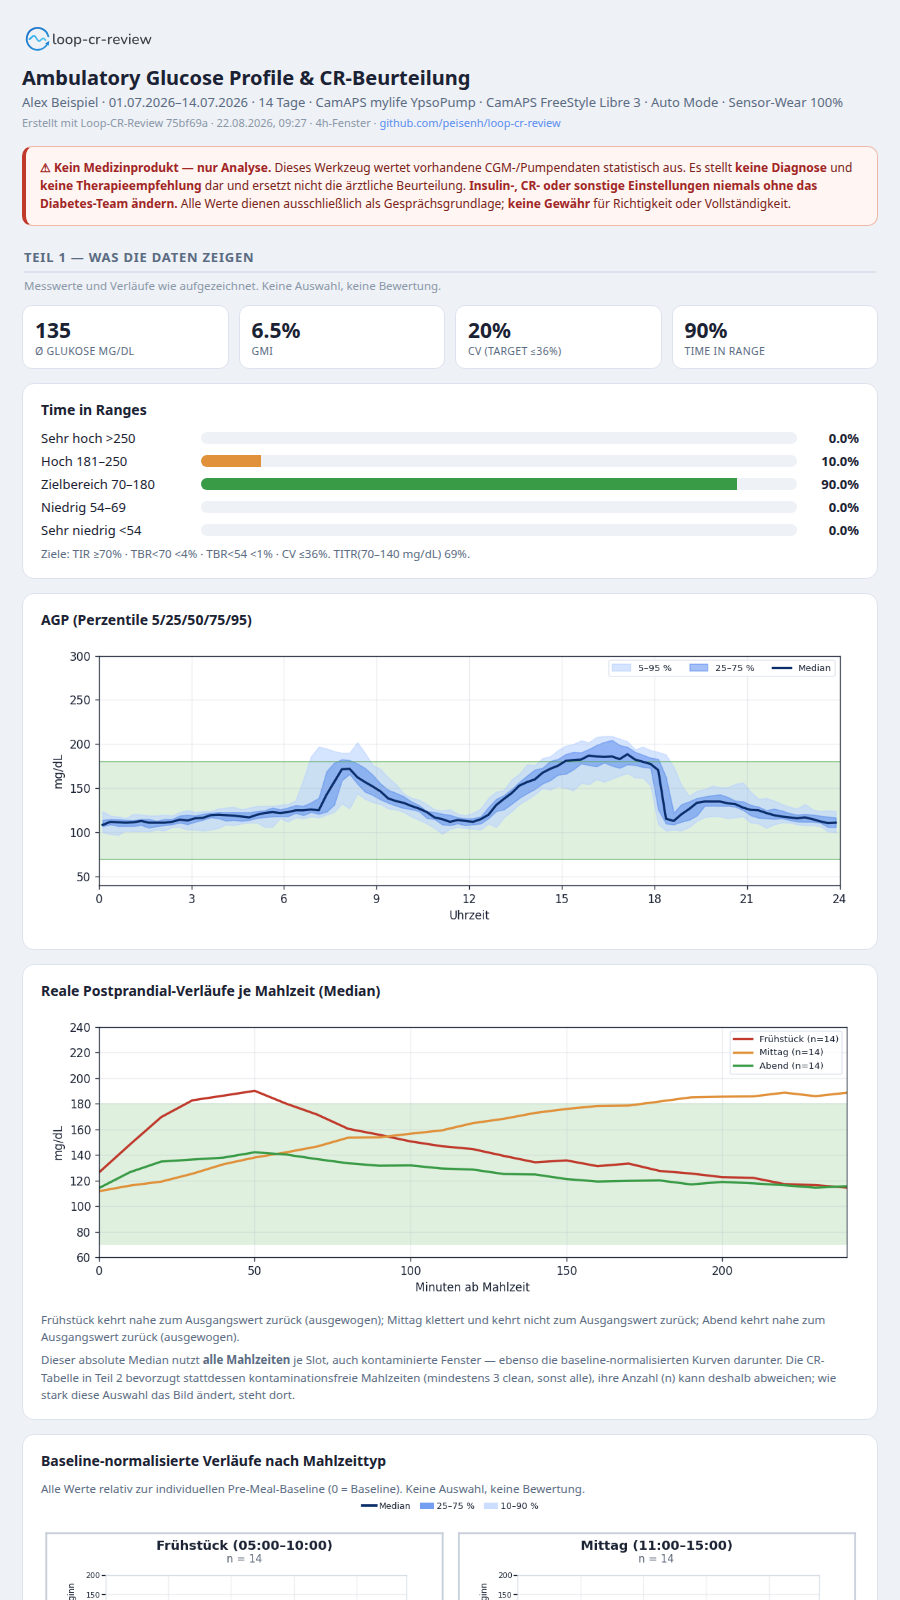
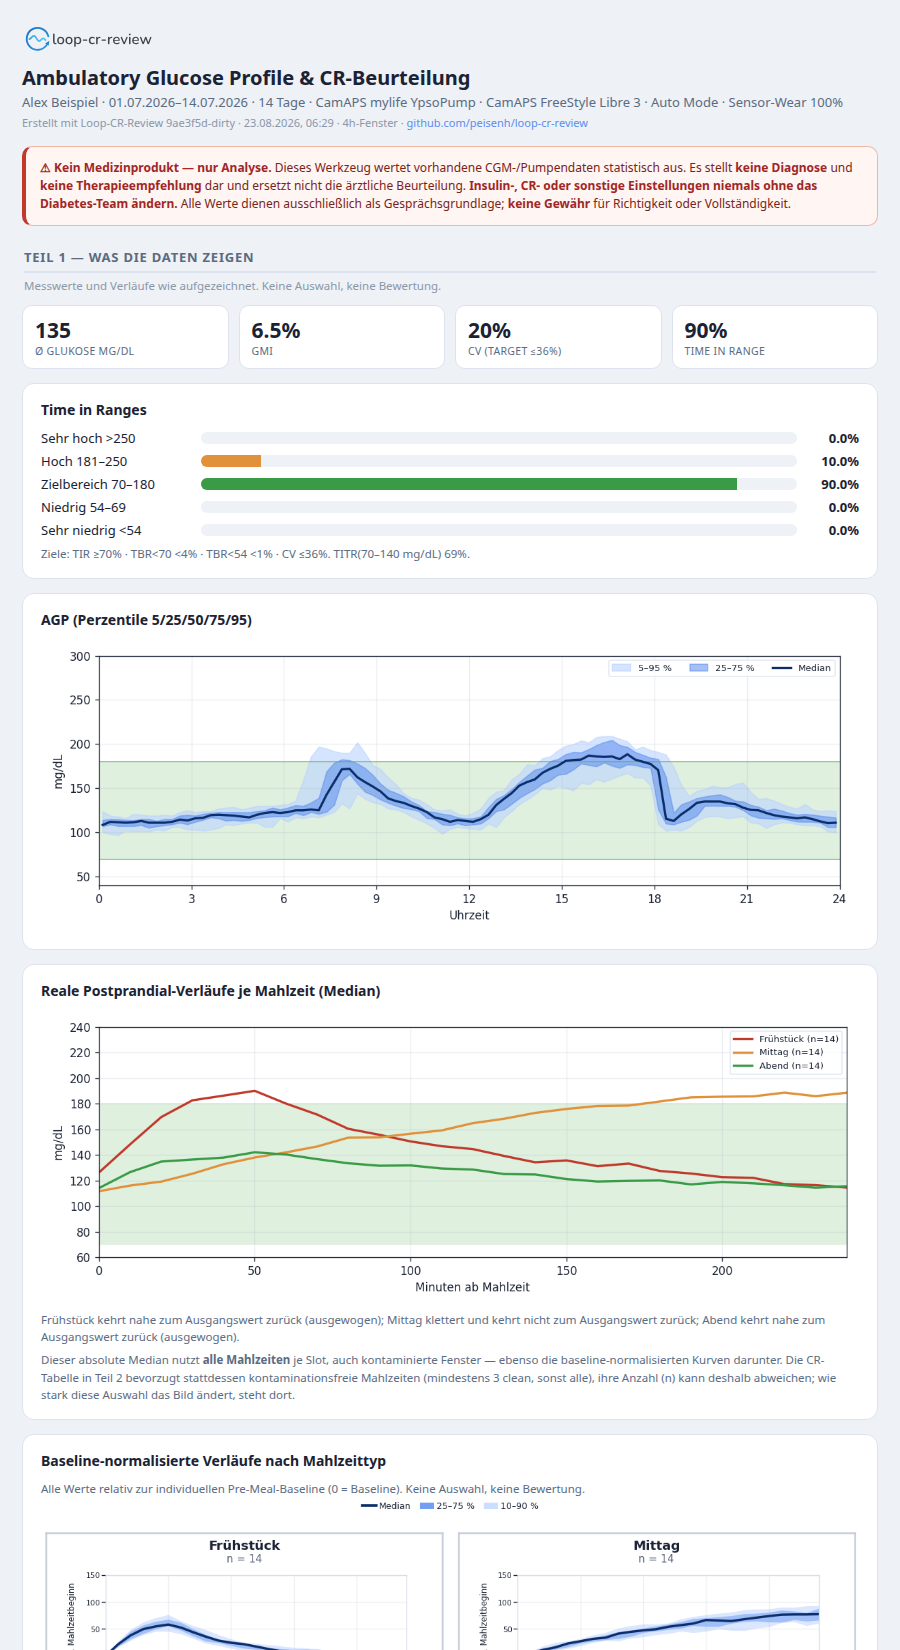
Baseline-norm panels: drop slot times, fixed Δ axis
- Titles show meal name only (no clock window).
- Fixed y-range −100…+150 (curves may clip).
- Refresh README screenshots (full-page capture).

diff --git a/loop_cr_review.py b/loop_cr_review.py
@@ -1633,19 +1633,8 @@ def slot_norm_curves_chart(meals, window, val_at, dark=False):
     n = len(bands)
     ncols = 2
     nrows = (n + ncols - 1) // ncols
-    # Default range matches typical postprandial Δ; expand if data exceeds
-    y_lo, y_hi = -g(150), g(200)
-    for _s, b in bands:
-        for key in ("p10", "p90"):
-            lo = np.nanmin(b[key])
-            hi = np.nanmax(b[key])
-            if not np.isnan(lo):
-                y_lo = min(y_lo, float(lo))
-            if not np.isnan(hi):
-                y_hi = max(y_hi, float(hi))
-    step = g(25)
-    y_lo = np.floor(y_lo / step) * step
-    y_hi = np.ceil(y_hi / step) * step
+    # Fixed Δ range; curves may clip outside −100…+150
+    y_lo, y_hi = -g(100), g(150)
 
     pal = _chart_palette(dark)
     band90 = "#bcd4ff" if not dark else "#2a4060"
@@ -1702,18 +1691,9 @@ def slot_norm_curves_chart(meals, window, val_at, dark=False):
                 spine.set_color(edge)
                 spine.set_linewidth(1.5)
 
-            win = ""
-            for key, _lab, start, end in _slot_state()[0]:
-                if key != slot:
-                    continue
-                if start < 0:
-                    win = _("outside other windows")
-                else:
-                    win = f"{start:02d}:00–{end:02d}:00"
-                break
             outer.text(
                 0.5, 0.97,
-                f"{_slot_state()[2][slot]} ({win})",
+                f"{_slot_state()[2][slot]}",
                 transform=outer.transAxes, ha="center", va="top",
                 fontsize=11, color=title_c, fontweight="bold",
             )

diff --git a/CHANGELOG.md b/CHANGELOG.md
@@ -9,6 +9,9 @@ Entries up to and including 0.5.3 are in German; newer entries are in English.
 
 ## [Unreleased]
 
+### Changed
+- Baseline-norm panels: slot titles without clock windows; fixed Δ axis −100…+150 (may clip).
+
 ## [0.13.0] - 2026-08-22
 
 ### Changed
